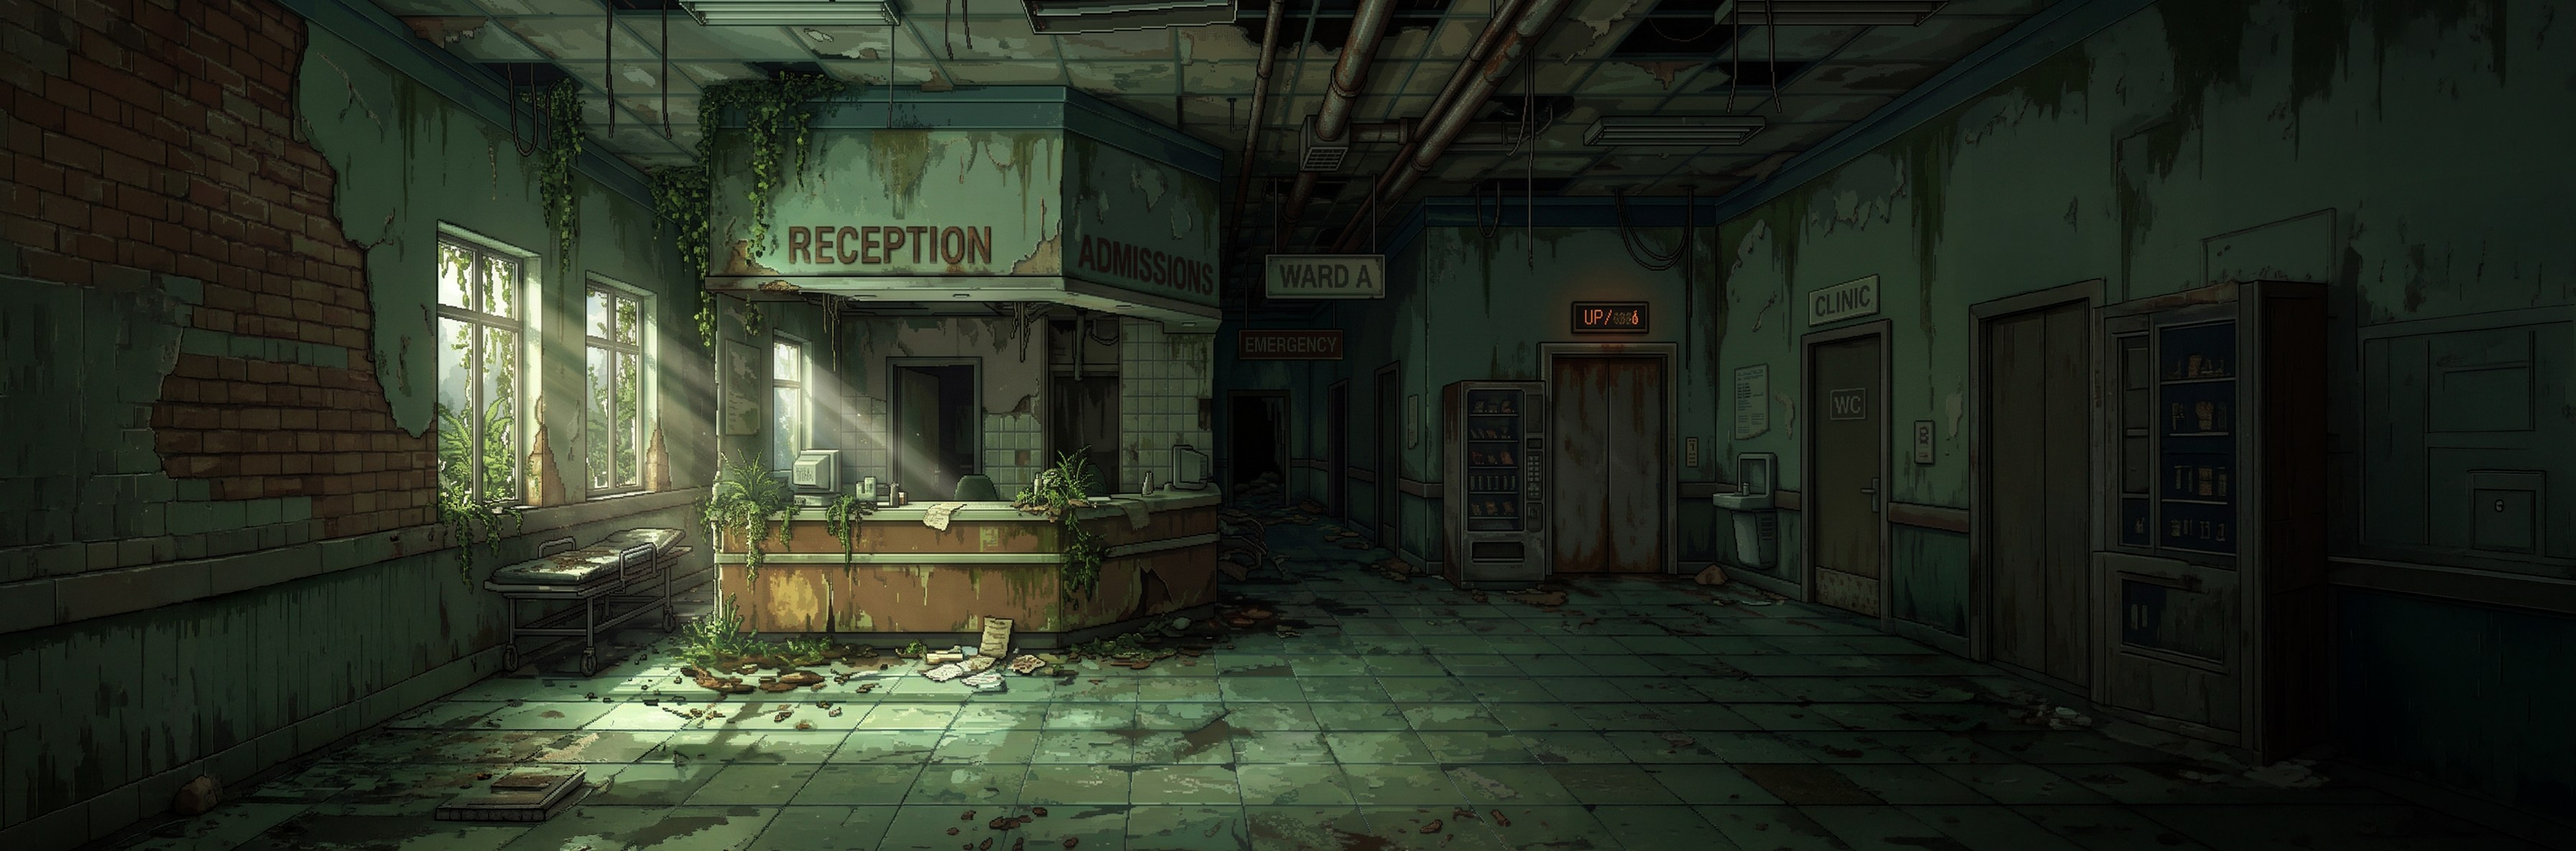
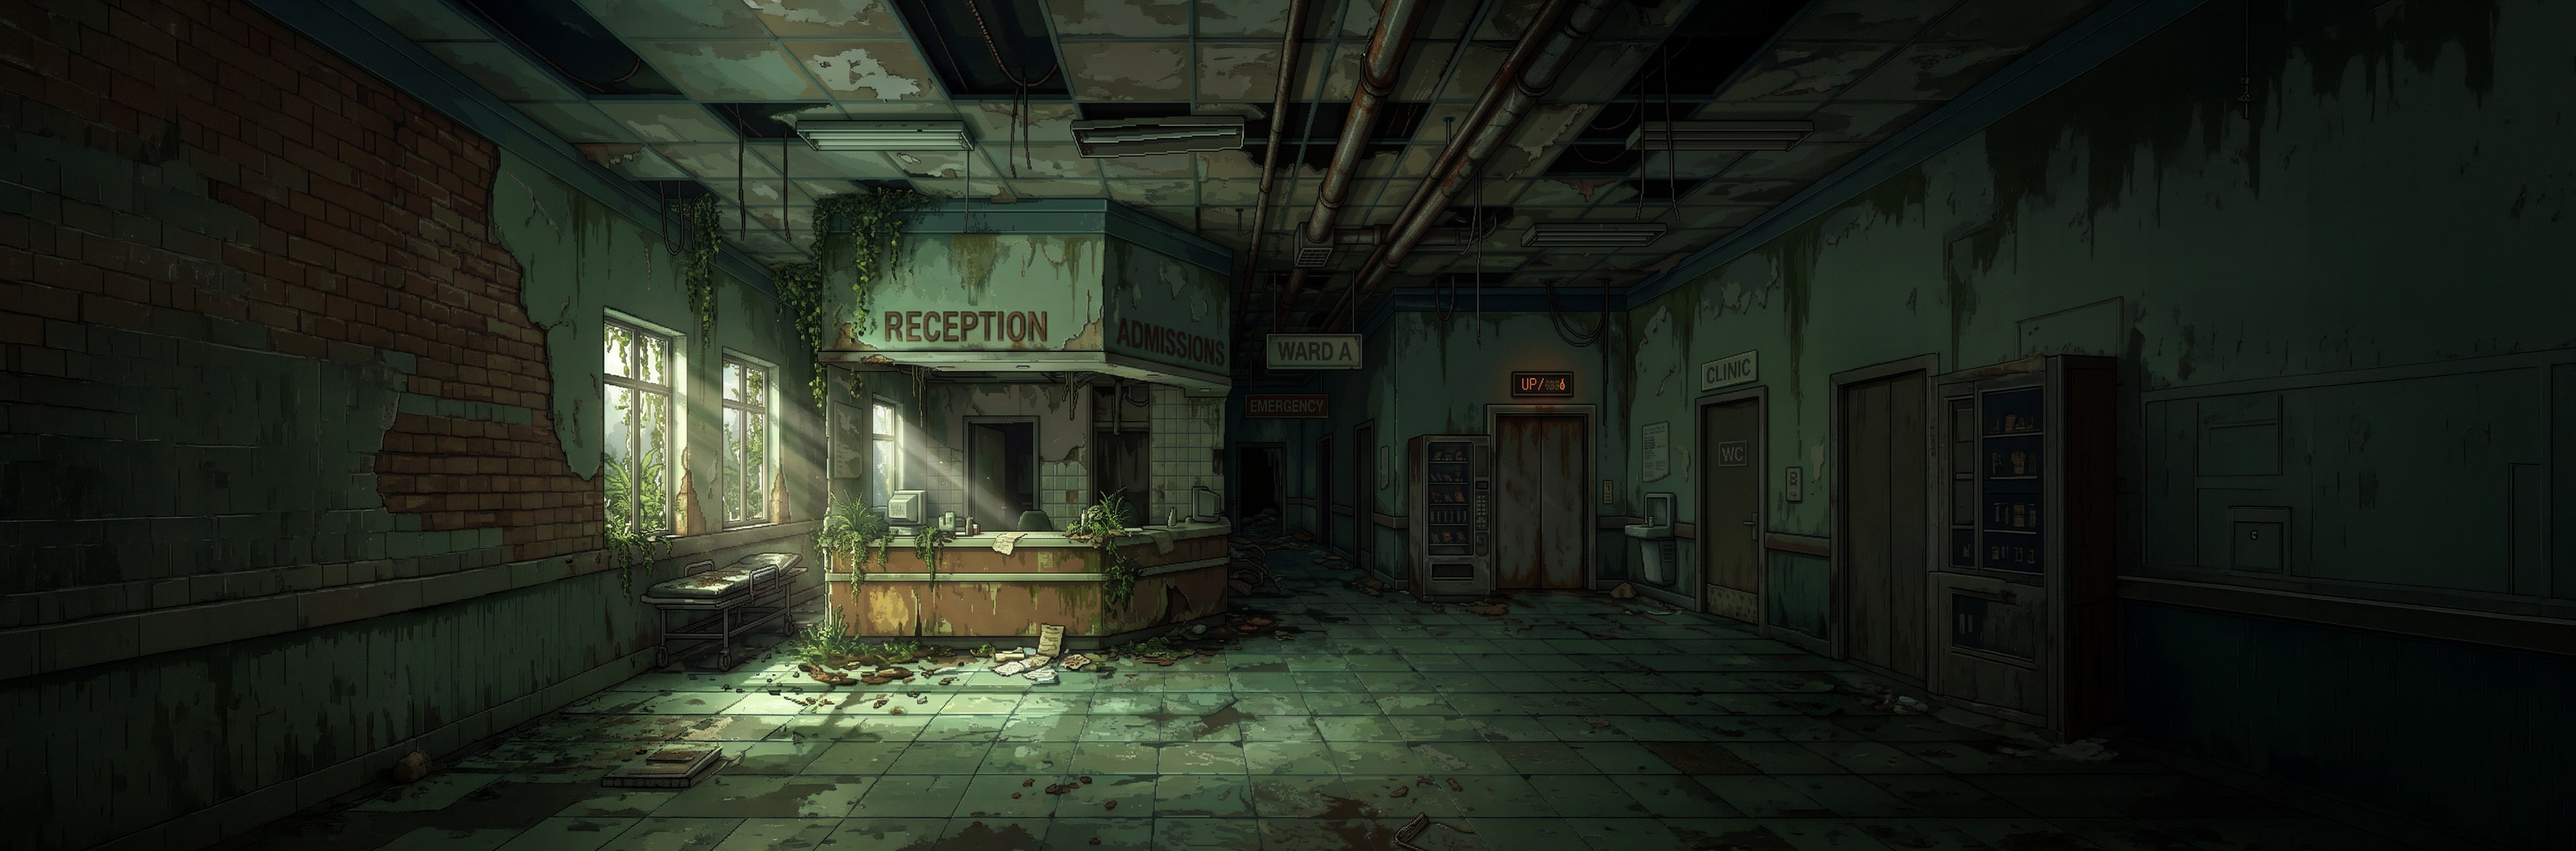
Hospital: new art and walk zone (per-arena AL/AR/GY); ultra gives 1.2-0.8 s per button; ultra practice in training (J / Options+R2)

diff --git a/index.html b/index.html
@@ -18,7 +18,7 @@ let GY=500; // GY — линия пола: середина зоны, разме
 // WW — ширина арены (мир шире экрана); camX — левый край экрана в мире. Бойцы не расходятся дальше экрана.
 const WW=1634,SPAN=W-90;
 // AL..AR — где можно стоять: левее и правее пол уходит под стену, столы и бочки (картинка шире игровой зоны)
-const AL=236,AR=1398; // края зоны для ходьбы (183…1450 на арене) с запасом на ширину бойца
+let AL=236,AR=1398; // края зоны для ходьбы с запасом на ширину бойца (у каждой арены свои, см. ARENAS)
 let camX=(WW-W)/2;
 const camTarget=()=>clamp((F[0].x+F[1].x)/2-W/2,0,WW-W);
 const cv=document.getElementById('c'),ctx=cv.getContext('2d');
@@ -145,7 +145,7 @@ function ctlLabel(a,i=0){
   return pn(PADMAP[t][a],t);
 }
 const KS={tab:0,row:0,wait:false,msg:'',held:new Set()};
-const KRES=['Escape','Enter','Tab','Backspace','Delete','KeyM','KeyV','KeyC','KeyX','KeyB','KeyN','Digit1','Digit2','Digit3','Digit4'];
+const KRES=['Escape','Enter','Tab','Backspace','Delete','KeyM','KeyV','KeyC','KeyX','KeyB','KeyN','KeyJ','Digit1','Digit2','Digit3','Digit4'];
 addEventListener('keydown',e=>{
   if(G.phase!=='keys'||!KS.wait||KS.tab>1)return;
   e.preventDefault();pressed.delete(e.code);
@@ -342,7 +342,7 @@ const CH=[
 //    hit — номер кадра удара (до него — замах, после — возврат)
 // размер ячейки берётся из самой картинки при загрузке (cw, ch в таблице — только до загрузки)
 // версия картинок: менять при каждой замене спрайтов, иначе браузеры игроков показывают старые из кэша
-const AV='20261114c';
+const AV='20261114d';
 function sheet(src,frames,cw,ch,fps,o){
   const img=new Image(),a={img,frames,cw,ch,fps,...o};
   img.onload=()=>{a.cw=img.naturalWidth/frames;a.ch=img.naturalHeight;};
@@ -584,7 +584,7 @@ function mkF(i,chi,cpu){
     seq:'',contactAt:-1,jug:0,comboDmg:0,maxCombo:0,usedSp:[],locked:false,keepBuf:false,breakT:0};
 }
 function startMatch(){
-  GY=arena().gy;
+  const A=arena();GY=A.gy;AL=A.al||236;AR=A.ar||1398;
   F=[mkF(0,G.sel[0],false),mkF(1,G.sel[1],G.mode===1)];
   if(G.mode===3){F[1].ch=DUMMY;F[1].dummy=true;G.dummy=0;G.log=[];G.list=true;TUT.i=-1;TUT.demo=false;TUT.ps=0;}
   if(G.mode===1)F[1].ai.skill=DIFF[G.diff][1];
@@ -1298,10 +1298,12 @@ function tick(net){
     }
   }else if(G.phase==='ultra'){
     ultraTick();
+    if(G.mode===3&&!net&&(pressed.has('Backspace')))startRound(); // тренировка: выйти из ультры
   }else if(G.phase==='ko'){
     if(!G.timeout&&G.t<60&&G.t%3)return; // замедление на нокауте
     world(false);
     const w=G.winner;
+    if(G.mode===3){if(G.t>130)startRound();return;} // тренировка ультры — сразу снова в тренировку
     if(G.t>60&&w&&w.y>=GY&&FREE.includes(w.state)){w.state='win';voice(w,'v_win');}
     if(G.t>200){
       if(F.some(f=>f.wins>=2)){G.phase='end';G.t=0;}
@@ -1314,9 +1316,10 @@ function tick(net){
 }
 // ---------- ультра комбо ----------
 // окно ULT_WIN кадров на нажатие спецприёма; дальше удары прожимаются вручную по показанной цепочке кнопок:
-// верная кнопка — удар, неверная или не успел за ULT_T кадров — ультра обрывается добиванием. Максимум ULT_N ударов.
+// верная кнопка — удар, неверная или не успел за ultT кадров — ультра обрывается добиванием. Максимум ULT_N ударов.
 // Цепочка у бойца постоянная (ultraSeq повторяется по кругу) — её можно выучить; беспорядочное долбление не работает.
-const ULT_WIN=150,ULT_N=60,ULT_T=36,ULT_GAP=3;
+const ULT_WIN=150,ULT_N=60,ULT_GAP=3;
+const ultT=n=>Math.round(72-n*.4); // время на кнопку: 1,2 с в начале, 0,8 с к 60-му удару
 function finishUltra(U,ultra){
   const w=U.w,d=U.d,dir=w.facing;
   w.state='idle';w.vx=0;
@@ -1369,7 +1372,7 @@ function ultraTick(){
     shake=Math.max(shake,4+U.n/8);if(U.n%10===0){hitstop=4;G.uFlash=frame+8;}
     if(!w.cpu)rumble(w.i,U.n%10===0);
     if(U.n>=ULT_N){w.uKey=w.ch.ultraFin||w.uKey;w.uT0=frame;finishUltra(U,true);}
-  }else if(U.t-U.last>ULT_T){w.uKey=w.ch.ultraFin||w.uKey;w.uT0=frame;finishUltra(U,true);} // не успел — добивание
+  }else if(U.t-U.last>ultT(U.n)){w.uKey=w.ch.ultraFin||w.uKey;w.uT0=frame;finishUltra(U,true);} // не успел — добивание
 }function toSelect(){G.phase='select';G.ok=[false,false];G.selT=0;snd('bell');}
 // ---------- обучение комбо (тренировка) ----------
 // Шаг комбо: серия ('p1,p1,k2'), спецприём ('@n' — нейтральный, '@d' — вниз, '@b' — назад) или захват / воздушная серия ('@g').
@@ -1484,6 +1487,10 @@ function training(){
   if(pressed.has('KeyV')){ // прослушка озвучки по очереди: видно, какой звук на какую роль назначен
     const v=VTEST[G.vt=((G.vt===undefined?-1:G.vt)+1)%VTEST.length];
     samp(v[0],.9,1,v[1]);G.vtMsg=`голос ${G.vt+1}/${VTEST.length}: ${v[2]}`;G.vtT=frame+240;
+  }
+  if(pressed.has('KeyJ')||(PAD[0].start&&IN[0].s)){ // тренировка ультры: болванчик сразу ошеломлён, дальше как в бою
+    TUT.demo=false;startRound();G.log=[];const d=F[1];d.state='hit';d.dazeT=d.stateT=99;
+    G.phase='ultra';G.t=0;G.ultra={w:F[0],d,run:false,n:0,t:0,train:true};snd('bell');return;
   }
   if(pressed.has('KeyN')||(PAD[0].start&&IN[0].blk)){G.arena=((G.arena||0)+1)%ARENAS.length;const ls=G.list;startMatch();G.list=ls;snd('bell');return;} // смена арены
   if(pressed.has('KeyB')||(PAD[0].start&&PAD[0].run)){ // смена бойца: по кругу среди доступных
@@ -1747,10 +1754,10 @@ const bg=document.createElement('canvas');bg.width=W;bg.height=H;
 // арена-бар: картинка шире экрана, рисуется в координатах мира. Пока не загрузилась — старый фон крыши.
 // арены: картинка 3584×1184 растягивается на мир WW×H; fgr — где лежит передний план (в пикселях картинки), gy — линия пола
 // (середина зелёной зоны разметки, в пикселях картинки); края зоны для ходьбы у обеих арен совпадают (AL..AR)
-const imgOf=s=>{const i=new Image();i.src=s;return i;};
+const imgOf=s=>{const i=new Image();i.src=s+'?v='+AV;return i;}; // версия — чтобы новая картинка арены не бралась из кэша
 const ARENAS=[
   {name:'БАР',img:imgOf('assets/arena_bar.jpg'),fg:imgOf('assets/arena_bar_fg.png'),fgr:[3041,919,338,265],gy:500,lights:true,music:MUSIC},  // ящик и бочка справа
-  {name:'БОЛЬНИЦА',img:imgOf('assets/arena_hospital.jpg'),fg:imgOf('assets/arena_hospital_fg.png'),fgr:[1044,1036,612,146],gy:Math.round(1116*540/1184),music:MUSIC_HOSP} // каталка внизу
+  {name:'БОЛЬНИЦА',img:imgOf('assets/arena_hospital.jpg'),fg:imgOf('assets/arena_hospital_fg.png'),fgr:[1044,1036,612,146],gy:Math.round(1077*540/1184),al:320,ar:1349,music:MUSIC_HOSP} // зона 585…3072 по середине полосы // каталка внизу
 ];
 const arena=()=>ARENAS[G.arena||0];
 // источники света (координаты по картинке шириной 2000): лампы, неон, автомат, окно. b — как часто мигает
@@ -1971,7 +1978,7 @@ function drawTraining(){
   if(F[0].breakT>0&&!TUT.demo)txt('СЕРИЯ СОРВАНА',52,H-86,20,'#ff5a4a','left');
   txt(`боец: ${F[0].ch.name}  [B · геймпад: бег + Options — сменить] · арена: N / блок + Options`,52,H-62,13,'#9fd8ff','left',true);
   drawTutor();
-  txt('Backspace / Options — сброс · Tab / тачпад — список · C / R3 — комбо · V — прослушать голос · M — музыка · Esc / Create — меню',W-20,H-10,12,'#999','right',true);
+  txt('Backspace / Options — сброс · Tab / тачпад — список · C / R3 — комбо · J / Options + R2 — ультра · V — прослушать голос · M — музыка · Esc / Create — меню',W-20,H-10,12,'#999','right',true);
   if(G.vtT>frame)txt(G.vtMsg,W/2,112,16,'#9fd8ff','center',true);
   if(G.list){
     const ML=moveList(F[0].ch);
@@ -2149,7 +2156,7 @@ function render(){
         const lb=ctlLabel(b,NET.on||w.cpu?0:w.i);
         txt(lb,x0+i*bw+bw/2,y+(lb.length<2?32:29),lb.length<2?(cur?30:24):Math.min(17,64/lb.length),cur?'#000':'#fff');
       }
-      const k=clamp(1-(U.t-U.last)/ULT_T,0,1);
+      const k=clamp(1-(U.t-U.last)/ultT(U.n),0,1);
       ctx.fillStyle='#000';ctx.fillRect(x0+4,y+bw-2,cnt*bw-8,8);ctx.fillStyle=k<.35?'#ff5a4a':'#4ad8ff';ctx.fillRect(x0+6,y+bw,(cnt*bw-12)*k,4);
     }
   }
